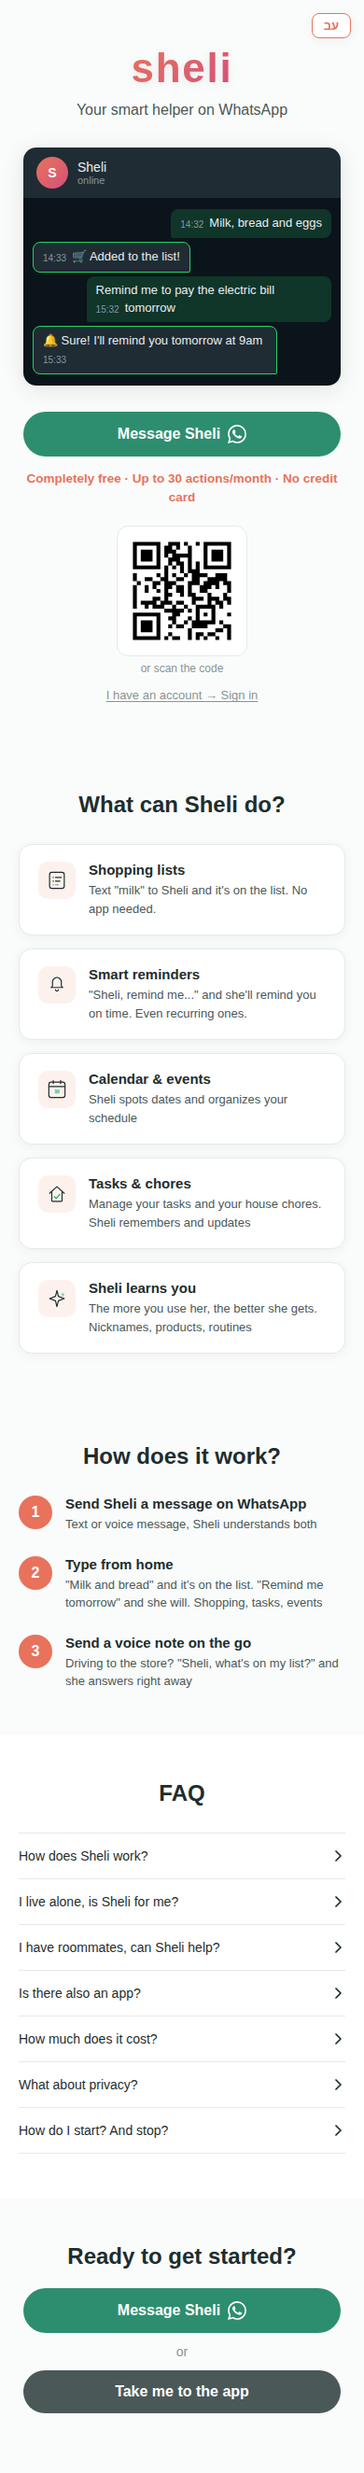
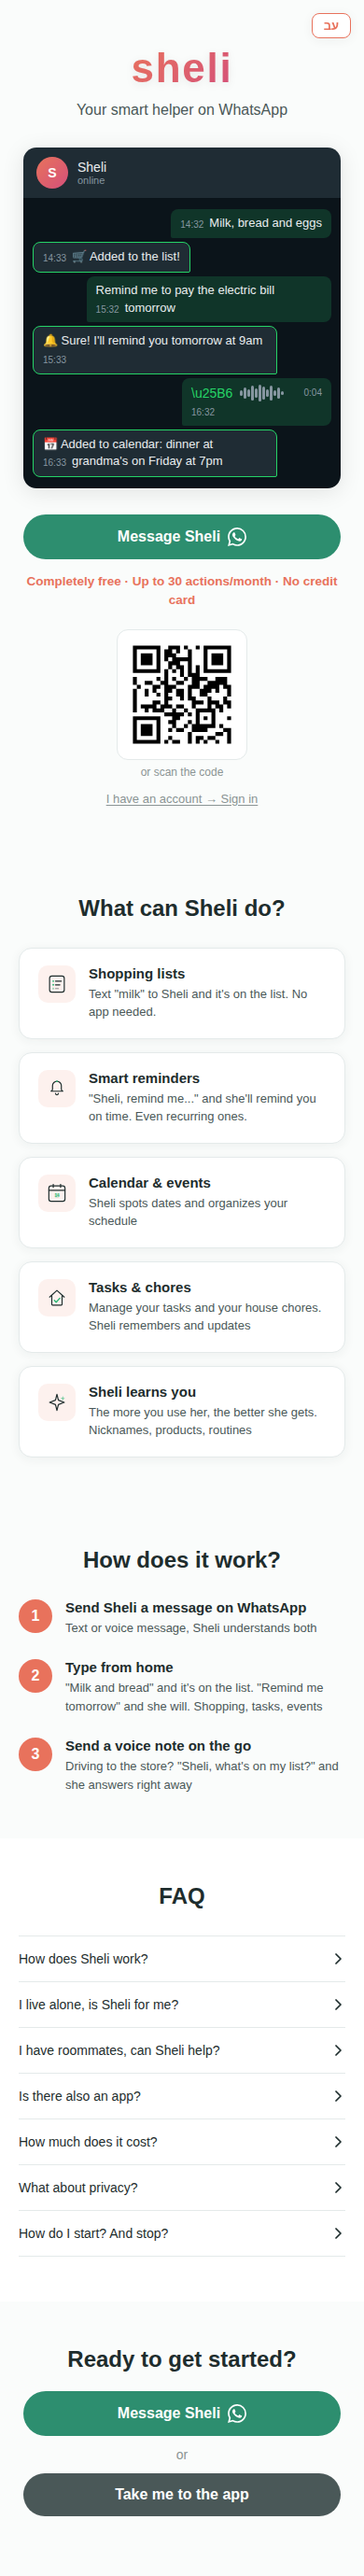
feat: add voice message to WhatsApp mock
Third exchange in the mock demonstrates voice capability:
user sends a voice message (with waveform visual), Sheli understands
it and adds a calendar event. The mock now shows all three input modes:
text→shopping, text→reminder, voice→calendar event.

https://claude.ai/code/session_01Q1JpJbQf1Zpp2Q6Tpo9kpg

diff --git a/src/components/LandingPage.jsx b/src/components/LandingPage.jsx
@@ -29,6 +29,8 @@ const CONTENT = {
       { text: "\u{1F6D2} הוספתי לרשימה!", type: "bot" },
       { text: "תזכירי לי מחר לשלם חשבון חשמל", type: "user" },
       { text: "\u{1F514} בשמחה! אזכיר לך מחר ב-9 בבוקר", type: "bot" },
+      { type: "voice", duration: "0:04" },
+      { text: "\u{1F4C5} הוספתי ליומן: ארוחת ערב אצל סבא וסבתא ביום שישי", type: "bot" },
     ],
     cta: "שלחו הודעה לשלי",
     freeBadge: "חינם לגמרי · עד 30 פעולות בחודש · בלי כרטיס אשראי",
@@ -75,6 +77,8 @@ const CONTENT = {
       { text: "\u{1F6D2} Added to the list!", type: "bot" },
       { text: "Remind me to pay the electric bill tomorrow", type: "user" },
       { text: "\u{1F514} Sure! I'll remind you tomorrow at 9am", type: "bot" },
+      { type: "voice", duration: "0:04" },
+      { text: "\u{1F4C5} Added to calendar: dinner at grandma's on Friday at 7pm", type: "bot" },
     ],
     cta: "Message Sheli",
     freeBadge: "Completely free \u00B7 Up to 30 actions/month \u00B7 No credit card",
@@ -153,10 +157,18 @@ export default function LandingPage({ onGetStarted, onSignIn }) {
             {c.mockMessages.map((msg, i) => (
               <div
                 key={i}
-                className={`wa-bubble wa-bubble-${msg.type}`}
+                className={`wa-bubble wa-bubble-${msg.type === "voice" ? "user" : msg.type}`}
                 style={{ animationDelay: `${i * 0.15}s`, direction: c.dir }}
               >
-                {msg.text}
+                {msg.type === "voice" ? (
+                  <span className="wa-voice">
+                    <span className="wa-voice-play">\u25B6</span>
+                    <span className="wa-voice-bars">
+                      <span /><span /><span /><span /><span /><span /><span /><span /><span /><span /><span /><span />
+                    </span>
+                    <span className="wa-voice-dur">{msg.duration}</span>
+                  </span>
+                ) : msg.text}
                 <span className="wa-bubble-time">
                   {`${14 + Math.floor(i / 2)}:${i % 2 === 0 ? "32" : "33"}`}
                 </span>

diff --git a/src/styles/landing.css b/src/styles/landing.css
@@ -168,6 +168,55 @@
   direction: ltr;
 }
 
+/* ─── Voice message bubble ─── */
+
+.wa-voice {
+  display: flex;
+  align-items: center;
+  gap: 8px;
+  min-width: 140px;
+}
+
+.wa-voice-play {
+  color: #25D366;
+  font-size: 14px;
+  flex-shrink: 0;
+}
+
+.wa-voice-bars {
+  display: flex;
+  align-items: center;
+  gap: 1.5px;
+  flex: 1;
+  height: 20px;
+}
+
+.wa-voice-bars span {
+  width: 2.5px;
+  border-radius: 2px;
+  background: #8696a0;
+}
+
+.wa-voice-bars span:nth-child(1)  { height: 6px; }
+.wa-voice-bars span:nth-child(2)  { height: 12px; }
+.wa-voice-bars span:nth-child(3)  { height: 8px; }
+.wa-voice-bars span:nth-child(4)  { height: 16px; }
+.wa-voice-bars span:nth-child(5)  { height: 10px; }
+.wa-voice-bars span:nth-child(6)  { height: 18px; }
+.wa-voice-bars span:nth-child(7)  { height: 14px; }
+.wa-voice-bars span:nth-child(8)  { height: 8px; }
+.wa-voice-bars span:nth-child(9)  { height: 16px; }
+.wa-voice-bars span:nth-child(10) { height: 6px; }
+.wa-voice-bars span:nth-child(11) { height: 12px; }
+.wa-voice-bars span:nth-child(12) { height: 4px; }
+
+.wa-voice-dur {
+  font-size: 10px;
+  color: #8696a0;
+  flex-shrink: 0;
+  direction: ltr;
+}
+
 @keyframes msgIn {
   from { opacity: 0; transform: translateY(8px); }
   to { opacity: 1; transform: translateY(0); }
